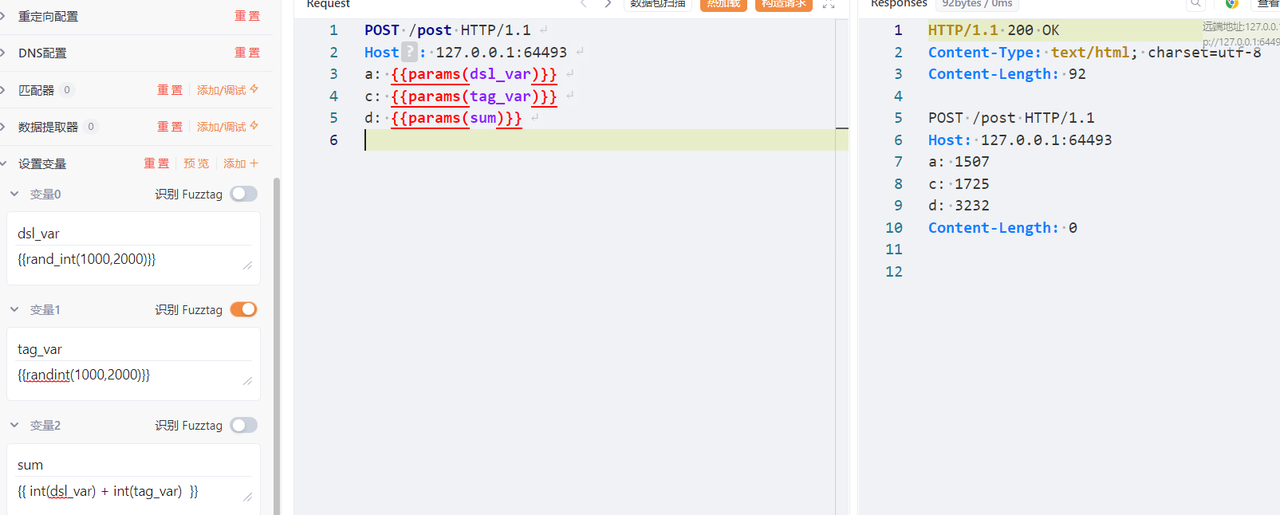
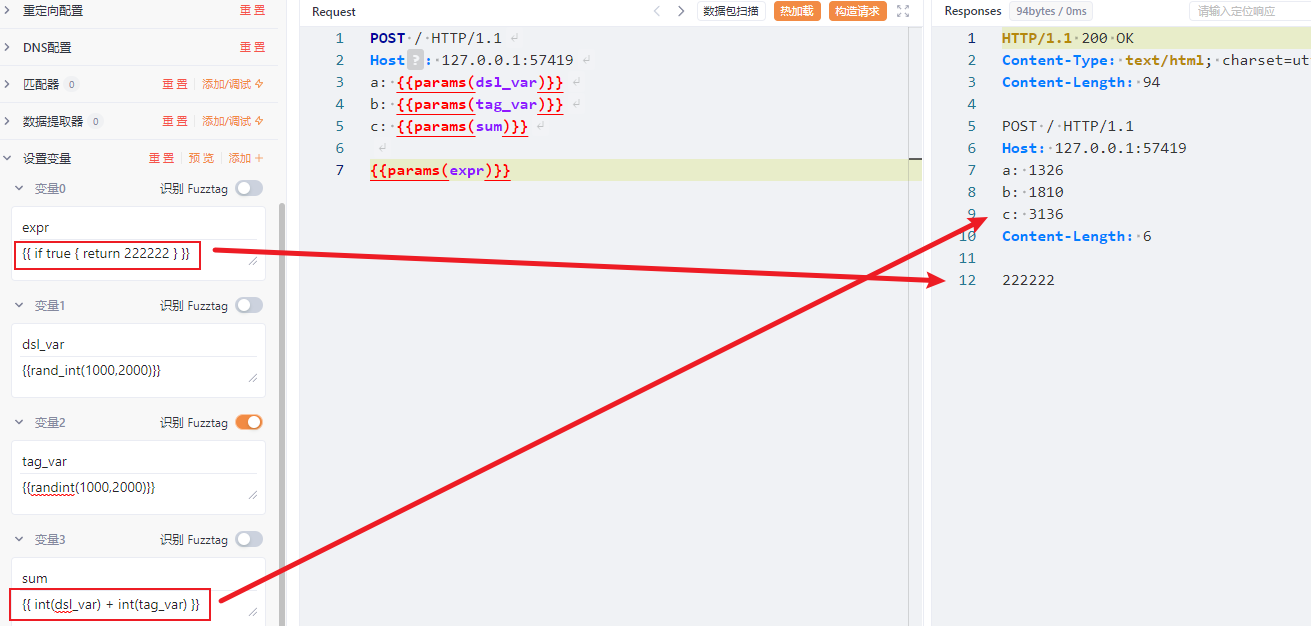
fix(sequence) improve documentation

diff --git a/products/expert-mode/Web Fuzzer/Fuzzer-Sequence.md b/products/expert-mode/Web Fuzzer/Fuzzer-Sequence.md
@@ -77,7 +77,53 @@ for req in [req1 , req2 , req3 , req4]{
 
 ![](/img/products/yakit/Fuzzer-Sequence/sequence_8.png)
 
-上图分别设置了三个变量，分别是
-1. `dsl_var` 未开启 `Fuzztag` 识别，同时变量的值被包裹在{{}}中则默认使用的是 `nuclei dsl`的方法，此处使用的是 `rand_int(1000,2000)`，表示生成一个范围在 `1000` 到 `2000` 的随机数。
-2. `tag_var` 开启 `Fuzztag` 识别，则可以使用 `yak` 原生支持的 `fuzztag` 标签了
-3. `sum` 稍微有点不一样，`sum`的值是由上面的两个变量
+上图分别设置了四个变量，分别是
+1. `dsl_var` 未开启 `Fuzztag` 识别，同时变量的值被包裹在{{}}中则默认使用的是 nuclei dsl的方法，此处使用的是 `rand_int(1000,2000)`，表示生成一个范围在 1000 到 2000 的随机数。
+2. `tag_var` 开启 `Fuzztag` 识别，则可以使用 `yak` 原生支持的 `fuzztag` 标签了，`randint(1000,2000)`功能上和上一步中功能是一样的
+3. `sum` 稍微有点不一样，sum的值是由上面设置的两个变量进行相加，换句话说，设置变量的值甚至可以输入一段**Yak代码**(沙箱中运行，限制了很多的内置方法以及库)
+4. `expr` 它的值是一个 If语句，是执行了 `if true { return 22222}` 这段代码后的结果
+
+简单介绍了**设置变量**功能后，我们同样结合着**匹配器功能**，来进一步的讲解，设置变量功能究竟有何作用，我们本次用一个 `Struts2-045`的本地靶场来进行演示，
+
+![](/img/products/yakit/Fuzzer-Sequence/sequence_9.png)
+
+我们设置了三个变量，以及一个匹配器规则，很完美的发送了一个漏洞检测数据包，是不是有写 `Poc`的感觉了？实际上，后续也确实会有 Web Fuzzer 配合匹配器、提取器、设置变量，一键生成 `Yaml Poc` 的功能
+
+### Web Fuzzer 序列
+
+铺垫了这么多，终于要到 Web Fuzzer 序列功能了，直接上图展示一下 Web Fuzzer 序列的功能吧
+
+![](/img/products/yakit/Fuzzer-Sequence/sequence_10.png)
+
+在 `Web-Fuzzer` 子标签的左侧我们发现多了一个侧边 Tab页，当我们点击 `Fuzzer` 序列时，会将 `WF-[1]`这个子标签页拖入一个序列组中，变成如下所示
+
+![](/img/products/yakit/Fuzzer-Sequence/sequence_11.png)
+
+随后我们可以在 `Step [0]` 这个节点中，添加 `Web Fuzzer` 的标签页`WF-[1]`
+
+![](/img/products/yakit/Fuzzer-Sequence/sequence_12.png)
+
+我们还可以继续添加其他的 Fuzzer 标签页，随后只需要将标签页拖入序列组中，即可再次添加节点
+
+![](/img/products/yakit/Fuzzer-Sequence/sequence_13.png)
+
+随后我们在 `WF-[1]` 中设置一个提取器规则，规则内容是提取键值为`Node1`的值，声明为 `get`变量
+
+再设置一个变量 `node1`，内容是字符串
+
+![](/img/products/yakit/Fuzzer-Sequence/sequence_14.png)
+
+最后我们在 `WF-[2]`中设置一下上面中声明的变量，可以发现，直接发送请求，结果是为空的，这是因为单独发送这一个请求，是没有`WF-[1]`中声明的变量的上下文的
+
+![](/img/products/yakit/Fuzzer-Sequence/sequence_15.png)
+
+那么我们使用 `Fuzzer` 序列功能尝试一下，在` WF-[1]`到`WF-[2]`的中间，开启**继承变量**(默认都是开启的)，查看结果，`WF-[2]`已经完美继承了在`WF-[1]`中设置的功能了
+
+![](/img/products/yakit/Fuzzer-Sequence/sequence_16.png)
+
+### Fuzzer 序列的使用场景
+
+1. 需要登陆后进行的一些操作，比如说，你完全可以使用 Fuzzer 序列功能写一个每日签到脚本
+2. csrf token 表达场景
+3. 编写 PoC，比如服务器返回了上传文件的Path，需要自行拼接地址进行访问，确认上传的文件被成功解析
+4. ...
